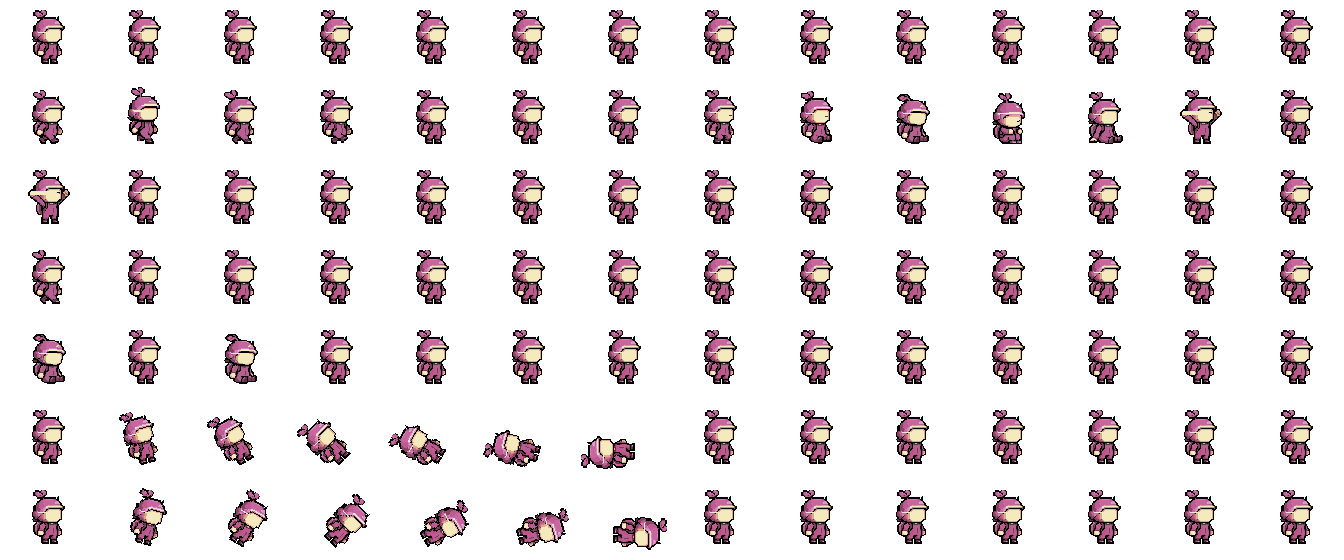
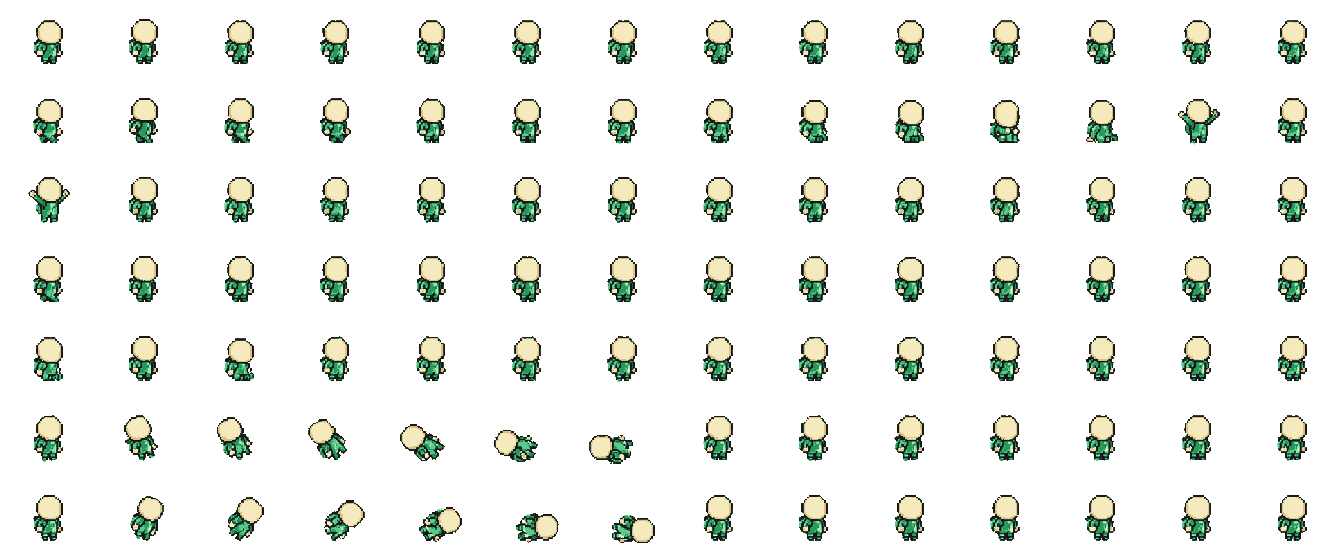
Add bald base character and editable random hair and hats

diff --git a/crates/gamenight-local-web/src/studio.html b/crates/gamenight-local-web/src/studio.html
@@ -1029,6 +1029,61 @@
       { name: 'Robot',     build: () => facePad().antenna().eyesSquare(5).mouthGrid(11).done() },
     ];
 
+    // Hair and headwear use the full native-pixel head canvas, independently
+    // of the facial expression. Leave the eyes at their existing right offset.
+    function dressRandomFace(face) {
+      const pick = values => values[Math.floor(Math.random() * values.length)];
+      const hair = pick(['#30231d', '#6b3926', '#c07832', '#efd078', '#dce3ef', '#8b4dcc']);
+      const cloth = pick(['#d64c64', '#437bd1', '#7552b8', '#36a69a', '#e39a36']);
+      const box = (x, y, w, h, color) => {
+        for (let row = y; row < y + h; row++) for (let col = x; col < x + w; col++) {
+          if (row >= 0 && row < GRID_SIZE && col >= 0 && col < GRID_SIZE) face[row * GRID_SIZE + col] = color;
+        }
+      };
+      const styles = [
+        () => { // Side part, with sideburns.
+          box(12, 15, 25, 5, hair); box(16, 12, 17, 3, hair);
+          box(12, 20, 5, 12, hair); box(17, 20, 9, 3, hair);
+        },
+        () => { // Curly hair: staggered little pixel curls.
+          for (let x = 12; x < 36; x += 5) {
+            box(x, 13 + (x % 2) * 2, 6, 6, hair); box(x + 1, 12 + (x % 2) * 2, 4, 8, hair);
+          }
+          box(11, 20, 5, 12, hair);
+        },
+        () => { // Mohawk.
+          box(22, 7, 5, 14, hair); box(24, 5, 4, 13, hair);
+          box(20, 17, 10, 4, hair);
+        },
+        () => { // Long hair, keeping the face open.
+          box(13, 14, 24, 6, hair); box(11, 20, 7, 20, hair);
+          box(18, 19, 7, 4, hair);
+        },
+        () => { // Beanie and pompom.
+          box(13, 13, 24, 8, cloth); box(17, 10, 16, 3, cloth);
+          box(23, 6, 6, 4, WHITE); box(11, 21, 28, 3, WHITE);
+        },
+        () => { // Baseball cap with a right-facing brim.
+          box(14, 14, 22, 7, cloth); box(18, 11, 14, 3, cloth);
+          box(12, 21, 31, 3, cloth); box(27, 15, 3, 4, WHITE);
+        },
+        () => { // Wizard hat.
+          for (let y = 5; y < 22; y++) {
+            const width = 3 + Math.floor((y - 5) / 2) * 2;
+            box(25 - Math.floor(width / 2), y, width, 1, cloth);
+          }
+          box(11, 22, 30, 3, cloth); box(24, 14, 2, 3, '#ffe066');
+        },
+        () => { // Crown.
+          box(13, 17, 25, 6, '#efc448');
+          for (const x of [13, 23, 34]) box(x, 11, 4, 6, '#efc448');
+          box(23, 19, 4, 3, cloth);
+        },
+      ];
+      pick(styles)();
+      return face;
+    }
+
     // Never hand out the same face twice running: pressing 🎲 and getting no
     // visible change reads as a broken button rather than bad luck.
     let lastFaceIdx = -1;
@@ -1039,7 +1094,7 @@
             % FACE_RECIPES.length;
       }
       lastFaceIdx = i;
-      return FACE_RECIPES[i].build();
+      return dressRandomFace(FACE_RECIPES[i].build());
     }
 
     function loadPreset() {

diff --git a/crates/lobby/tools/reskin/build_pixellab.py b/crates/lobby/tools/reskin/build_pixellab.py
@@ -6,67 +6,26 @@ explicit stand/stretch/crouch fallbacks until a full animation set is authored.
 Faces remain separate so the character studio can replace them.
 """
 from pathlib import Path
-import colorsys
 import re
 from PIL import Image, ImageDraw
 
 ROOT = Path(__file__).resolve().parents[4]
 SOURCE = ROOT / 'docs/art/pixellab-benchmark'
 ASSETS = ROOT / 'crates/lobby/assets'
-SCALE = 54 / 71
-SKINS = {'fishy': 0, 'pescy': .48, 'sharky': .18, 'orcy': -.23}
+SKINS = ('fishy', 'pescy', 'sharky', 'orcy')
 
 
 def source(name):
     return Image.open(SOURCE / (name + '.png')).convert('RGBA')
 
 
-def pose(name, hue, center=None):
-    im = source(name)
-    bbox = im.getbbox()
-    # Cream pixels bound the face. Fill only between its edges, preserving hood
-    # and chin shading. This removes the baked eyes from every animation pose.
-    px = im.load()
-    for y in range(30, 59):
-        xs = [x for x in range(16, 75) if (lambda p: p[3] > 200 and p[0] > 210 and p[1] > 180 and p[2] < p[1])(px[x, y])]
-        if len(xs) >= 7:
-            for x in range(min(xs), max(xs) + 1):
-                px[x, y] = (245, 233, 190, 255)
-    # Distinct outfit colours retain the same animation and silhouette.
-    for y in range(im.height):
-        for x in range(im.width):
-            r, g, b, a = px[x, y]
-            if a and g > r * 1.15 and g > b * 1.08:
-                h, s, v = colorsys.rgb_to_hsv(r / 255, g / 255, b / 255)
-                rgb = colorsys.hsv_to_rgb((h + hue) % 1, s, v)
-                px[x, y] = tuple(round(c * 255) for c in rgb) + (a,)
-    # Align the artist's drifting walk frame to the standing body centre.
-    if center is None:
-        center = 47 if name == 'walk-1' else 42
-    scaled = im.resize((round(96 * SCALE), round(96 * SCALE)), Image.Resampling.NEAREST)
-    cell = Image.new('RGBA', (96, 80))
-    cell.alpha_composite(scaled, (round(48 - center * SCALE), round(64 - bbox[3] * SCALE)))
-    return cell
-
-
 def build():
-    for skin, hue in SKINS.items():
+    for skin in SKINS:
         folder = ASSETS / 'player/skins' / skin
-        sheet = Image.new('RGBA', (96 * 14, 80 * 7))
-        stand = pose('character-1', hue)
-        frames = {i: stand for i in range(98)}
-        for i in range(4):
-            frames[14 + i] = pose(f'walk-{i}', hue)
-            frames[20 + i] = pose(f'sleep-{i}', hue)
-            frames[24 + i] = pose(f'wake-{i}', hue)
-        frames[28] = pose('wake-2', hue)
-        frames[42] = pose('walk-2', hue)
-        frames[56] = frames[58] = pose('sleep-3', hue)
-        for start, direction in ((70, 1), (84, -1)):
-            for i in range(7):
-                frames[start + i] = stand.rotate(direction * i * 15, Image.Resampling.NEAREST, center=(48, 53))
-        for idx, frame in frames.items():
-            sheet.alpha_composite(frame, (idx % 14 * 96, idx // 14 * 80))
+        # One hat-free base across all seats. Keep the prepared atlas in native
+        # pixels; rebuilding must not restore the old hooded character.
+        sheet = Image.open(ROOT / 'docs/art/bald-character/body.png').convert('RGBA')
+        frames = range(98)
         sheet.save(folder / f'{skin}-body.png')
         face = Image.new('RGBA', (46 * 11, 32 * 8))
         for variant in range(8):

diff --git a/docs/art/bald-character/README.md b/docs/art/bald-character/README.md
@@ -1,0 +1,15 @@
+# Bald base character
+
+Generated with the built-in image generation tool from the existing fishy body atlas.
+Prompt: Preserve the 14 by 7 animation atlas and poses; remove the hood, hat and
+sprout in every frame, replacing them with a blank bald cream head. No eyes,
+mouth, hair or headwear. Transparent background, hard pixel edges.
+
+`generated-atlas.png` is the original generated output. `body.png` is the runtime
+atlas, normalized to 1344 by 560 pixels with nearest-neighbour sampling, background
+removed and an eight-colour palette. All cells are 96 by 80 pixels.
+`build_pixellab.py` copies this same base for each legacy skin slot.
+
+The user drawing remains 48 by 48 at cell coordinate (24, 4), one drawing pixel
+per sprite pixel. Existing face data is unchanged. Random draws editable hair or
+headwear above the facial features inside that canvas.
